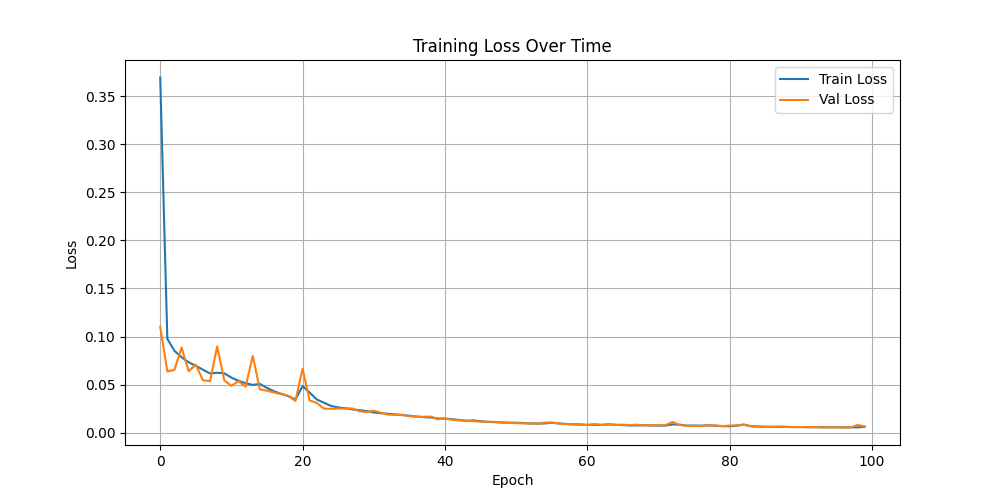
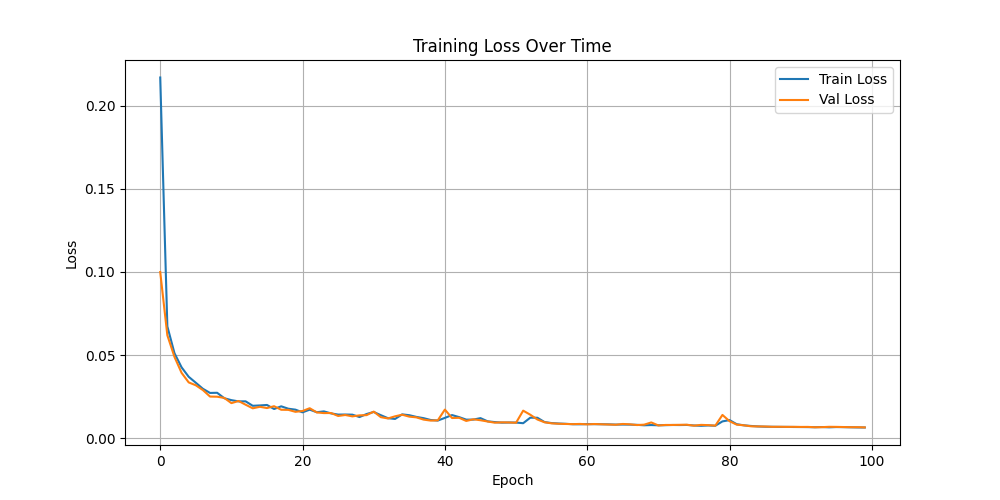
train autoencoder + plots, add new train fixes

diff --git a/models/train.py b/models/train.py
@@ -154,7 +154,7 @@ class LDMTrainer:
         # Initialize optimizer (only for trainable parameters)
         trainable_params = [p for p in model.parameters() if p.requires_grad]
         self.optimizer = torch.optim.Adam(trainable_params, lr=lr)
-        
+        self.scaler = torch.amp.GradScaler('cuda')
         # Learning rate scheduler
         self.scheduler = torch.optim.lr_scheduler.ReduceLROnPlateau(
             self.optimizer, mode='min', factor=0.5, patience=10,
@@ -171,8 +171,7 @@ class LDMTrainer:
 
         t = torch.randint(0, self.model.num_timesteps, (batch_size,), device=self.device)
         
-        # Use gradient scaling
-        with torch.cuda.amp.autocast():
+        with torch.autocast(device_type=self.device.type):
             outputs = self.model(content_spec, style_spec, t)
             noise_pred = outputs['noise_pred']
             noise = outputs['noise']
@@ -185,12 +184,21 @@ class LDMTrainer:
             style_loss_ = style_loss(reconstructed, style_spec, self.model.feature_loss_net)
             
             total_loss = compression_loss_ + denoisinsg_loss + self.style_loss_weight * style_loss_
-        
-        # Scale gradients
-        scaler = torch.cuda.amp.GradScaler()
-        scaler.scale(total_loss).backward()
-        scaler.step(self.optimizer)
-        scaler.update()
+            
+
+        self.scaler.scale(total_loss).backward()
+
+        # # Add gradient norm logging for style encoder
+        # total_norm = 0
+        # for p in self.model.style_encoder.parameters():
+        #     if p.grad is not None:
+        #         param_norm = p.grad.data.norm(2)
+        #         total_norm += param_norm.item() ** 2
+        # total_norm = total_norm ** 0.5
+        # print(f"Style encoder gradient norm: {total_norm}")
+
+        self.scaler.step(self.optimizer)
+        self.scaler.update()
         
         return {
             'compression_loss': compression_loss_.item(),
@@ -219,15 +227,15 @@ class LDMTrainer:
                 style_spec = style_spec.to(self.device)
                 
                 # Training step
-                for i in range(config['training_iteration_noise']):
-                    losses = self.train_step(content_spec, style_spec)
-                
-                    # Update progress bar
-                    total_loss += losses['total_loss']
-                    total_compression_loss += losses['compression_loss']
-                    total_denoisinsg_loss += losses['denoisinsg_loss']
-                    total_style_loss += losses['style_loss']
-                    pbar.set_postfix({'loss': losses['total_loss']})
+                # for _ in range(config['training_iteration_noise']):
+                losses = self.train_step(content_spec, style_spec)
+            
+                # Update progress bar
+                total_loss += losses['total_loss']
+                total_compression_loss += losses['compression_loss']
+                total_denoisinsg_loss += losses['denoisinsg_loss']
+                total_style_loss += losses['style_loss']
+                pbar.set_postfix({'loss': losses['total_loss']})
         
         avg_loss = total_loss / num_batches * config['training_iteration_noise']
         avg_compression_loss = total_compression_loss / num_batches * config['training_iteration_noise']

diff --git a/models/config.py b/models/config.py
@@ -4,7 +4,7 @@ config = {
     'learning_rate_factor': 0.5,
     'learning_rate_patience': 5,
     'learning_rate_min': 1e-6,
-    'num_epochs': 302,
+    'num_epochs': 202,
     # 'batch_size': 256,
     'batch_size': 128,
     'style_loss_weight': 3.0,
@@ -15,5 +15,5 @@ config = {
     'unet_num_filters': 64,
     'forward_diffusion_num_timesteps': 200,
     'compression_feature_extractor': 'lpips',
-    'training_iteration_noise': 250,
+    'training_iteration_noise': 50,
 }
